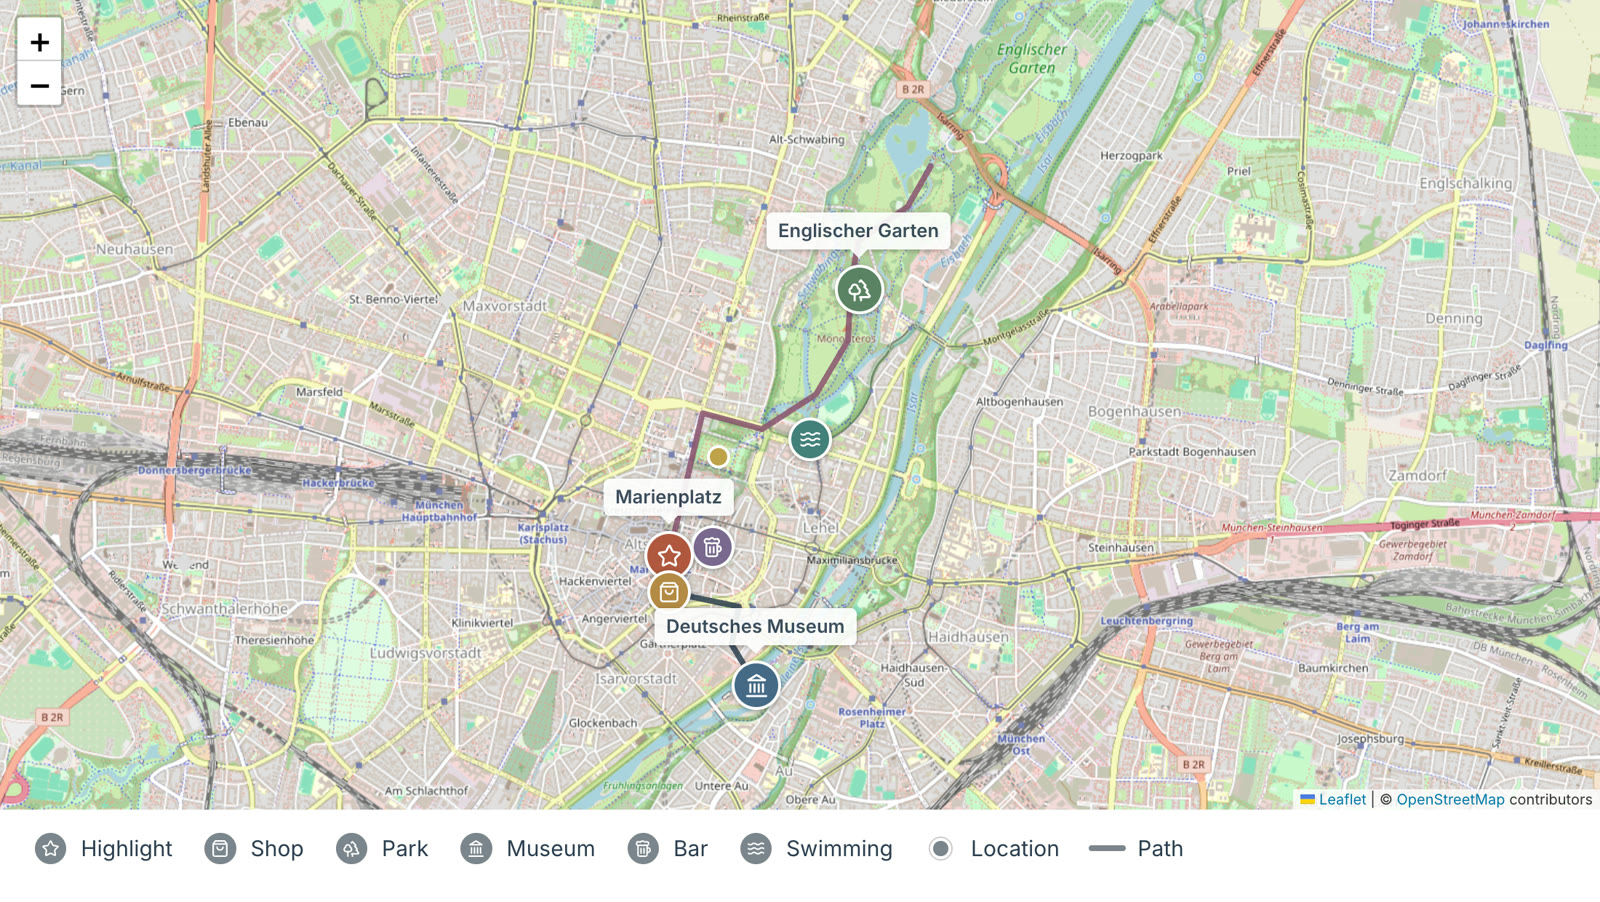
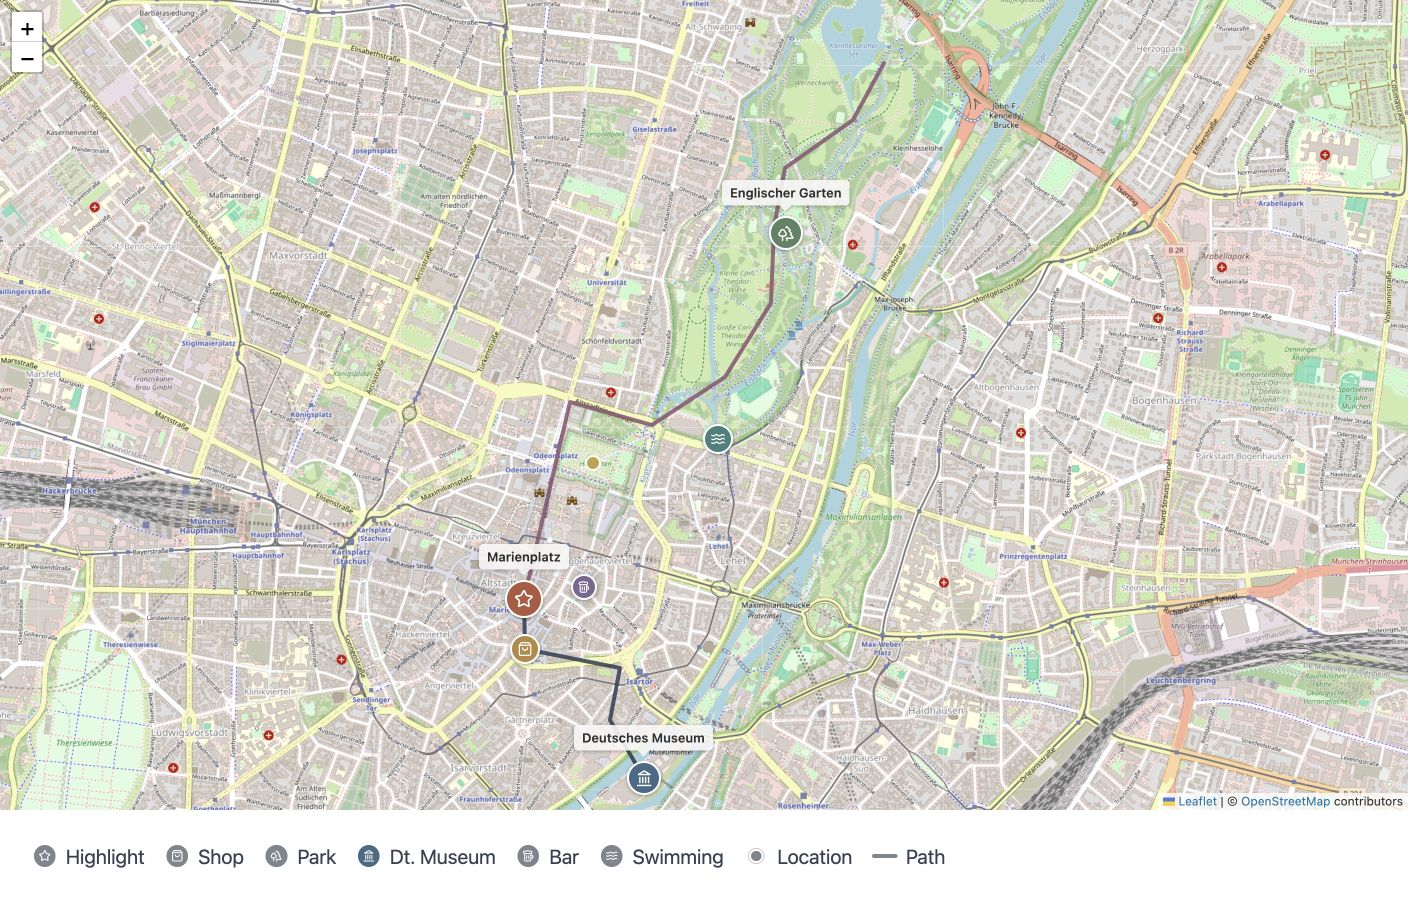
docs: refine screenshots and remove Panel sidebar

diff --git a/README.md b/README.md
@@ -252,3 +252,9 @@ This plugin is licensed under the [MIT License](LICENSE)
 - Map data © [OpenStreetMap](https://www.openstreetmap.org/copyright) contributors, address search by [Nominatim](https://nominatim.org/)
 
 [!["Buy Me A Coffee"](https://www.buymeacoffee.com/assets/img/custom_images/orange_img.png)](https://coff.ee/tearoom1)
+
+## Screenshots
+
+[Light preview](screenshot.jpg) · [Dark preview](screenshot-dark.jpg)
+
+Both previews use the same Munich map at 1408 × 902 pixels. The dark preview uses site CSS to theme the OpenStreetMap tiles, labels and map controls.
